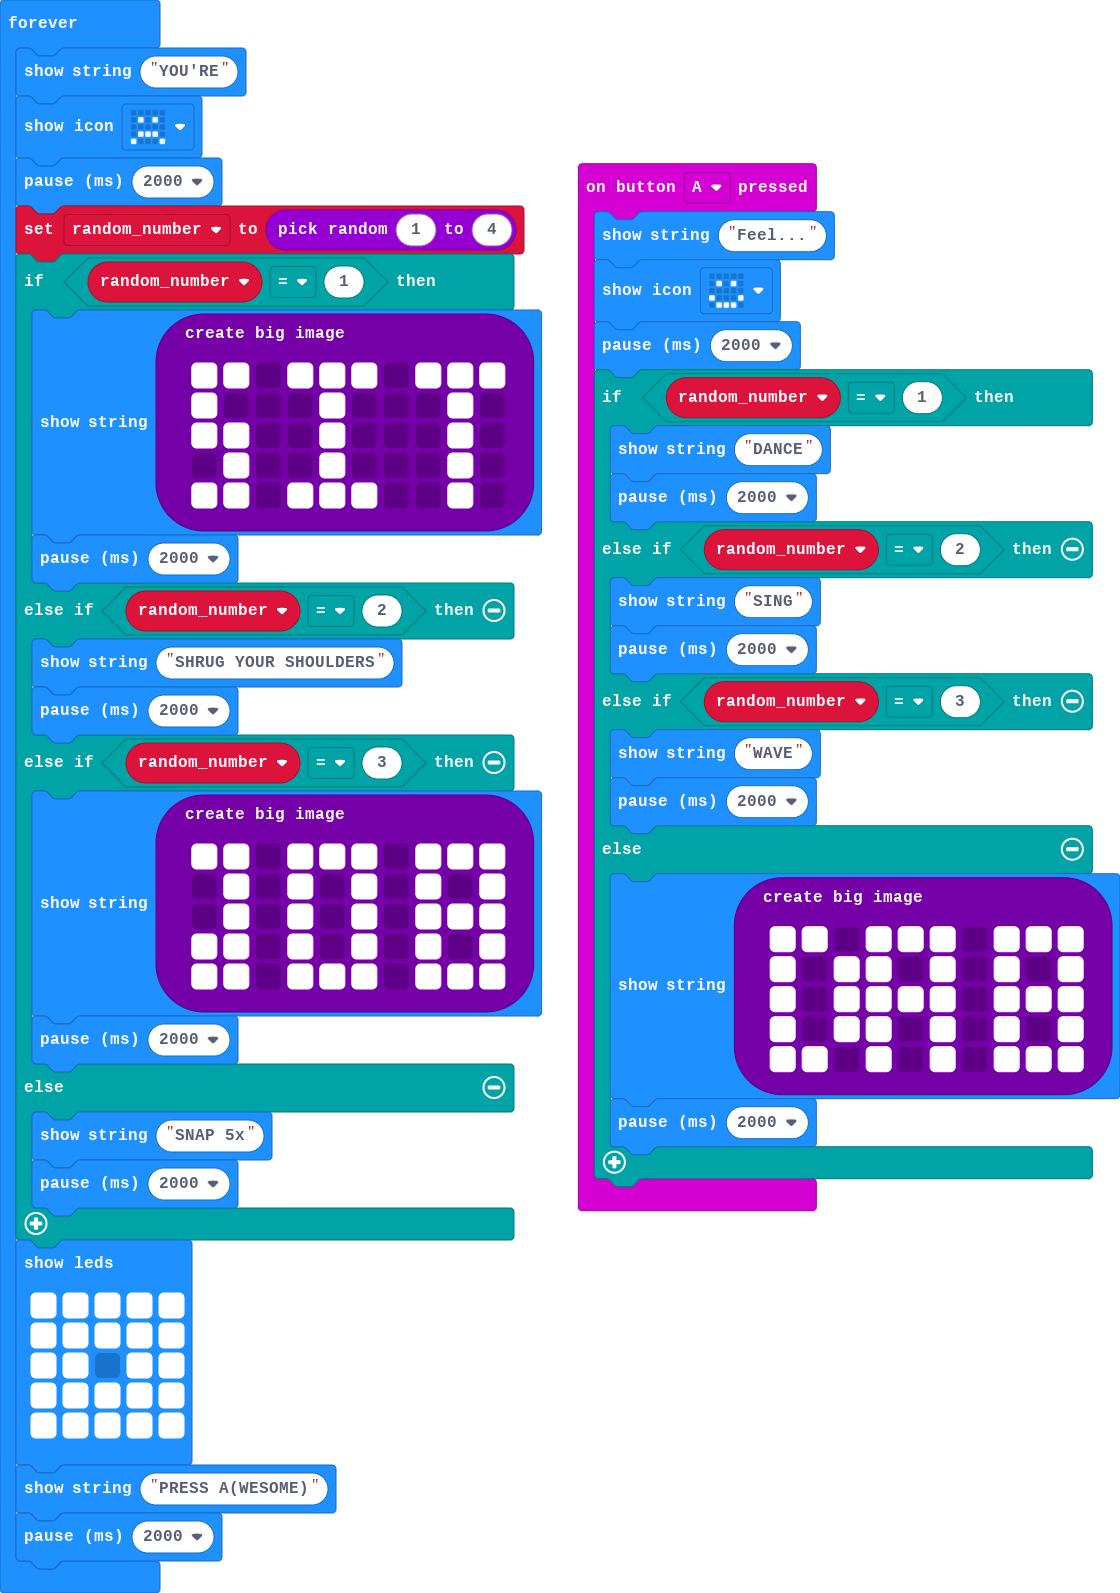
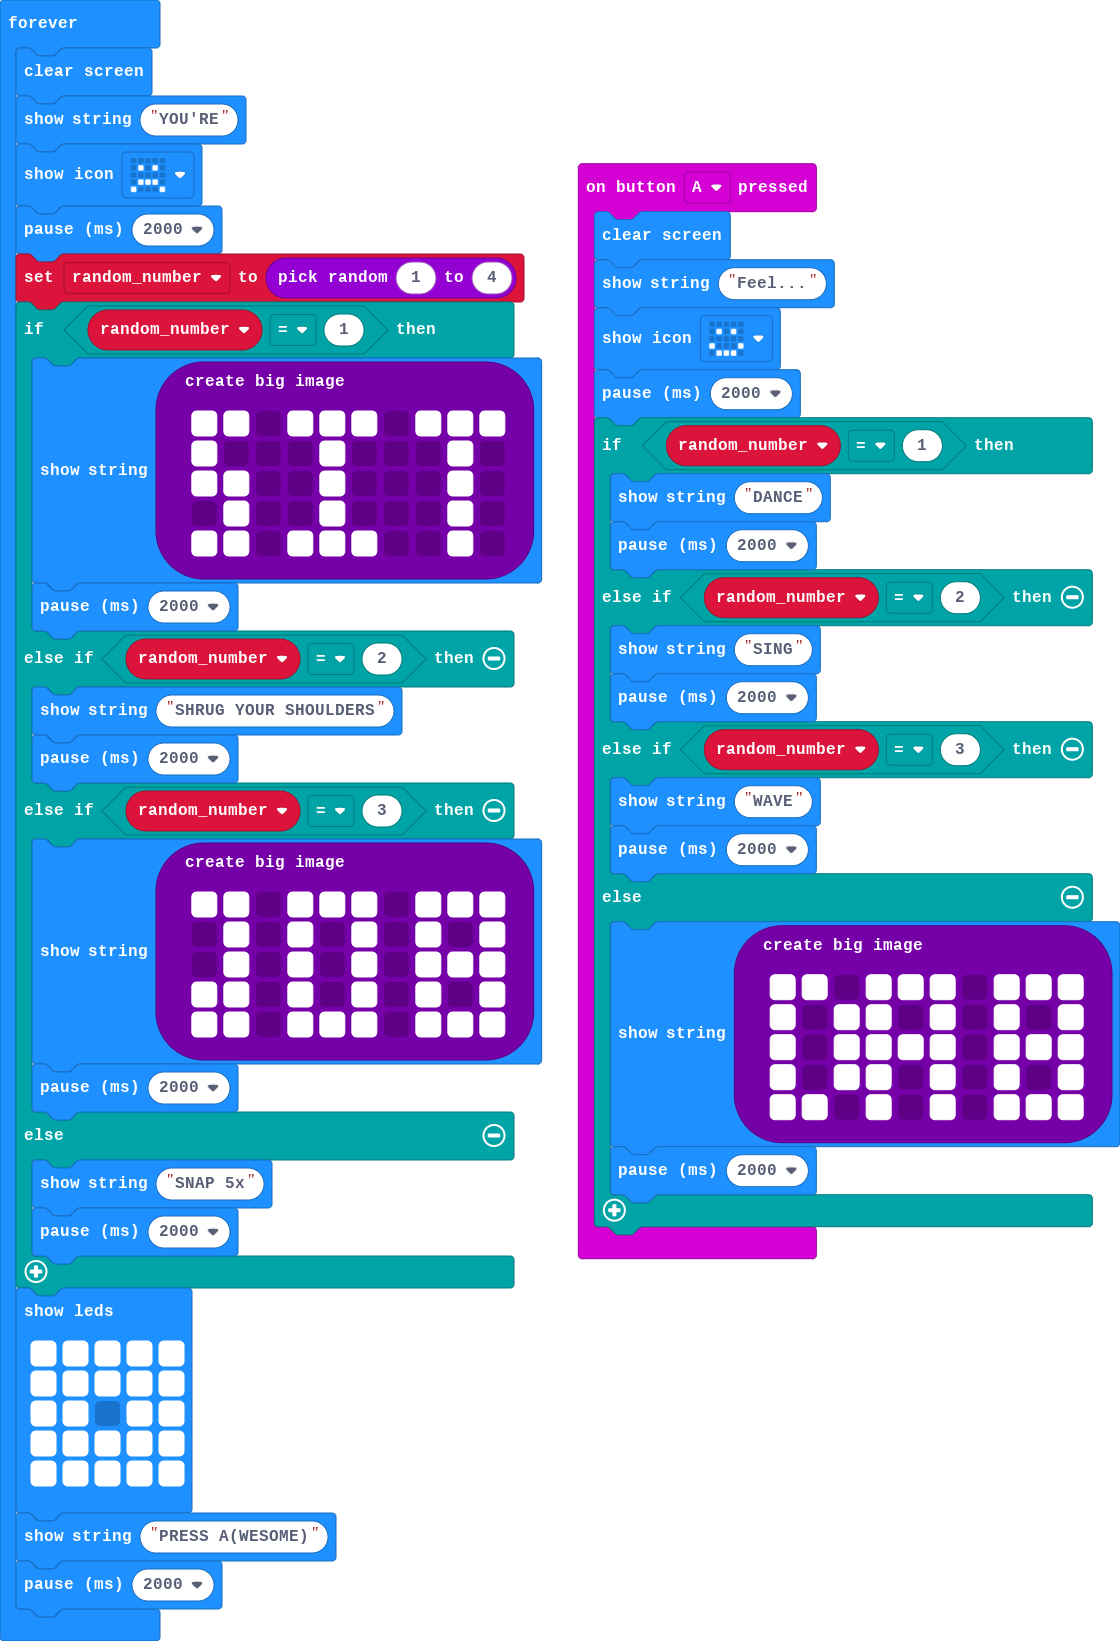
Update main.blocks, main.ts

diff --git a/main.ts b/main.ts
@@ -1,5 +1,6 @@
 let random_number = 0
 input.onButtonPressed(Button.A, function () {
+    basic.clearScreen()
     basic.showString("Feel...")
     basic.showIcon(IconNames.Happy)
     basic.pause(2000)
@@ -24,6 +25,7 @@ input.onButtonPressed(Button.A, function () {
     }
 })
 basic.forever(function () {
+    basic.clearScreen()
     basic.showString("YOU'RE")
     basic.showIcon(IconNames.Sad)
     basic.pause(2000)
